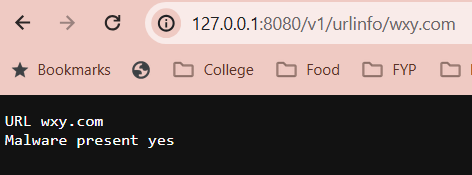
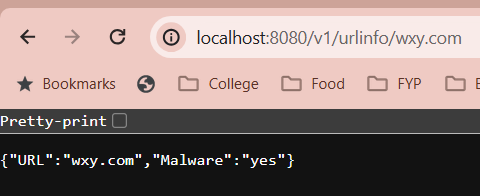
documentation update
update docs after changing return type from GET request to JSON. Fix small bug on / endpoint

diff --git a/main.go b/main.go
@@ -13,7 +13,7 @@ func main() {
 
 	router := http.NewServeMux()
 
-	router.HandleFunc("/v1/urlinfo/{url}", Server)
+	router.HandleFunc("/v1/urlinfo/", Server)
 	log.Fatal(http.ListenAndServe(":8080", router))
 
 }

diff --git a/README.md b/README.md
@@ -21,7 +21,26 @@ Coding assignment for interview. Implement a URL lookup that will block if malwa
 
 ![image](docs/logicFlow.png "logic")
 
-For this API I used golangs built in library net/http to serve up a simple web service that implments a REST API. I do not have explicit authorization enabled for this service so I disabled all other HTTP request methods other than GET and limited the number of requests per second to reduce risk. If this were to be implemented on a production level there would need to be an api access token implemented. I used a MySQL database for the URL storage.
+For this API I used golang's built in library net/http to serve up a simple web service that implments a REST API. I implemented a very simple authorization for this service. The password and user must be passed to the server in the GET HTTP packet. I disabled all other HTTP request methods other than GET and limited the number of requests per second to reduce risk. If this were to be implemented on a production level there would need to be an api access token implemented. I used a MySQL database for the URL storage.
+
+The API endpoints are
+/v1/urlinfo/
+
+* GET - Get info on URL whether it contains malware or not
+
+    /v1/urlinfo/{url}
+
+    How to query this API
+
+    ```sh
+    http://user:password@localhost:8080/v1/urlinfo/{url to query}
+    ```
+
+    Returned value is a JSON object that has information on whether malware is present or not (yes/no) against the requested URL. If the URL is not found in the database, the malware status is returned as unknown.
+
+    ```json
+    {"URL":"abc","Malware":"unknown"}
+    ```
 
 ## System Setup
 
@@ -31,12 +50,15 @@ Clone the repo
 git clone https://github.com/nhennigan/URL-lookup.git
 ```
 
-Edit the credentials.env file to add your own MySQL server details. The username and hostname are the default settings when setting up a MySQL server.
+Edit the credentials.env file to add your own MySQL server details and the user you want for the website. The db username and hostname are the default settings when setting up a MySQL server.
 
 ```sh
-password=XXXXXXXX
-username=root
+dbPassword=XXXXXXXX
+dbUsername=root
 hostname =127.0.0.1:3306
+
+appUsername=XXXXXXXXXXX
+appPassword=XXXXXXXXXXX
 ```
 
 Build the executable
@@ -51,16 +73,20 @@ This will create a server.exe file in your local repo. Run this to start the ser
 .\server.exe
 ```
 
-If you open a new tab on your browser and enter:
+If you open a new tab on your browser and enter the following:
 
 ```sh
-127.0.0.1:8080/v1/urlinfo/
+http://admin:pass@127.0.0.1:8080/v1/urlinfo/
 ```
 
-This will show the output of the server. To input values to check the url database, add the url you want to search to the search bar. For example:
+This will show the output of the server. Admin and pass are the sample username and password I have set in the credentials file. You may be prompted to input the username and password for the web service by your browser. If this is successful, you can drop the admin:pass@ from the http request.
+
+![image](docs/login.PNG "login")
+
+To input values to check the url database, add the url you want to search to the search bar. For example:
 
 ```sh
-127.0.0.1:8080/v1/urlinfo/wx7.com
+127.0.0.1:8080/v1/urlinfo/wxy.com
 ```
 
 ![image](docs/Capture1.PNG "output")
@@ -73,9 +99,9 @@ The service will check the database if that URL entry exists and if it has malwa
 
 ### What are some strategies you might use to update the service with new URLs? Updates may be as many as 5000 URLs a day with updates arriving every 10 minutes
 
-For this system I only created a sample database using MySQL as that is the database that I have already configured on my development environment. This database is also very simple with only one table with two fields. MySQL is known to be slower in look ups than a NoSQL server, especially as the data grows in size and the type of data being store is not uniform. As the databases scale, it would make sense to move to NoSQL.
+For this system I only created a sample database using MySQL as that is the database that I have already configured on my development environment. This database is also very simple with only one table with two fields. MySQL is known to be slower in look ups than a NoSQL server, especially as the data grows in size and the type of data being stored is not uniform. As the databases scale, it would make sense to move to NoSQL.
 
-I have implemented a simple ticker [here](server.go#L46) that will read the entries.json file and add new URLs to the database or update the exsisting URL malware status if necessary. The thought process here would be that the entries.json file would be controlled by whoever is providing the info on whether a URL is safe or not for our DB. We could extend the server functionality to check for new json files to read in from a certain location. As the ticker is using a go routine, this would have to made safe with something like a sync lock.
+I have implemented a simple ticker [here](server.go#L73) that will read the entries.json file and add new URLs to the database or update the exsisting URL malware status if necessary. The thought process here would be that the entries.json file would be controlled by whoever is providing the info on whether a URL is safe or not for our DB. We could extend the server functionality to check for new json files to read in from a certain location. As the ticker is using a go routine, this would have to made safe with something like a sync lock.
 
 ### The size of the URL list could grow infinitely, how might you scale this beyond the memory capacity of the system? Bonus if you implement this
 
@@ -83,7 +109,7 @@ Vertically scaling the location where the database is held will allow it to scal
 
 ### The number of requests may exceed the capacity of this system, how might you solve that? Bonus if you implement this
 
-At the moment I have set the limit of requests per second to 15 [here](server.go#L12) as a low threshold for testing on my development environment. This could be much higher on more powerful servers. This would be vertically scaling the system by adding more resoures. I also set db connection limits [here](db.go#L37). Again, scaling vertically with a more powerful server would allow you to drastically increase these limits.
+At the moment I have set the limit of requests per second to 15 [here](server.go#L15) as a low threshold for testing on my development environment. This could be much higher on more powerful servers. This would be vertically scaling the system by adding more resoures. I also set db connection limits [here](db.go#L38). Again, scaling vertically with a more powerful server would allow you to drastically increase these limits.
 
 You coud also horizontially scale the process in the form of containers/pods that can be duplicated. A service IP would provide the one endpoint to the proxy HTML server and the service will provide by default a round robin distribution of traffic accross however many instances of the url lookup you want. There would have to be one underlying database that all url lookup containers/pods can use - this would also have to be go routine safe. This could be done by extracting the ticker (i.e. the database updater) to a seperate service that is the only one with write access to the database. A simplified diagram of this setup using docker compose would look like:
 
